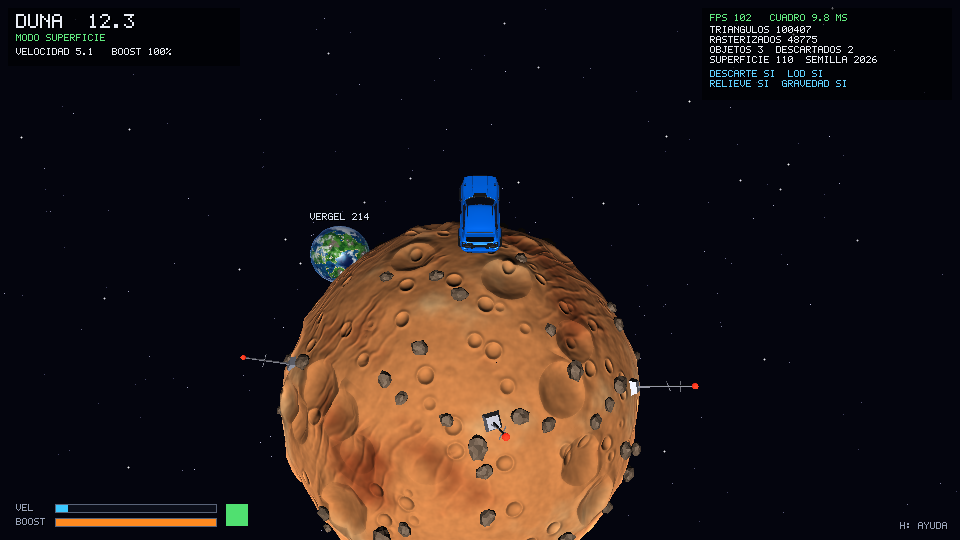
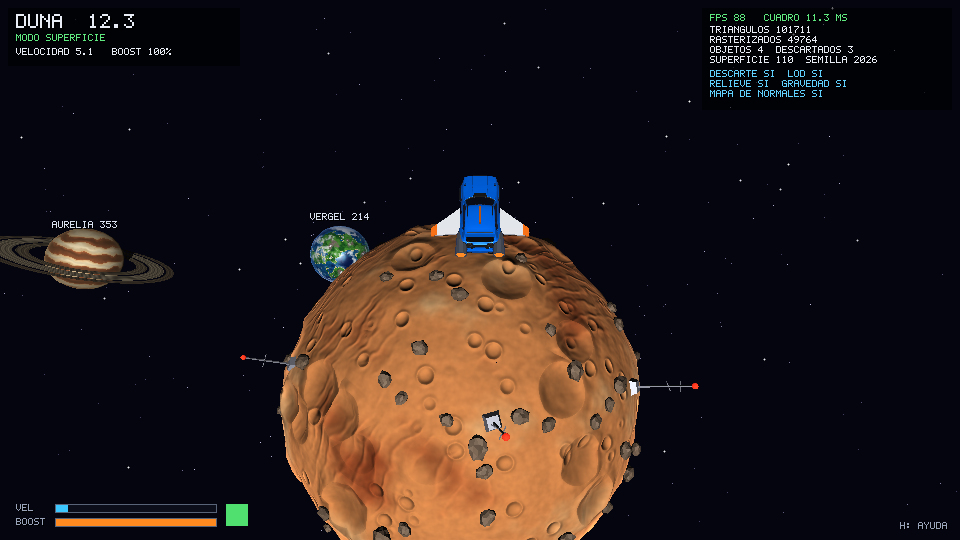
README y capturas actualizadas

diff --git a/README.md b/README.md
@@ -24,6 +24,8 @@ sin pantallas de carga ni cambios de escena.
 |---|---|
 | ![Duna](docs/capturas/02_duna.png) | ![Glacia](docs/capturas/03_glacia.png) |
 | ![Vergel](docs/capturas/04_vergel.png) | ![Sol animado](docs/capturas/05_sol.png) |
+| ![Aurelia y sus anillos](docs/capturas/08_aurelia.png) | ![Ignis](docs/capturas/09_ignis.png) |
+| ![Fennec con el kit espacial y boost](docs/capturas/10_kit.png) | ![Trayectoria prevista por la gravedad](docs/capturas/06_gravedad.png) |
 
 ---
 
@@ -39,7 +41,10 @@ sin pantallas de carga ni cambios de escena.
 
 - **Modelo del carro:** el Fennec es un modelo del videojuego *Rocket League* (Psyonix). Se obtuvo
   como recurso externo (carpeta [fennec-rocket-league-car/](fennec-rocket-league-car/): FBX y texturas);
-  **no fue modelado por el equipo**. Se convirtió a OBJ con un script propio de Blender
+  **no fue modelado por el equipo**. Para adaptarlo como nave, el equipo le agregó un **kit
+  espacial modelado en código** ([src/spacekit.cpp](src/spacekit.cpp)): dos propulsores con tobera
+  incandescente, alerones en flecha, una aleta dorsal y llamas de propulsión animadas (tecla `K`
+  para comparar con el modelo original). Se convirtió a OBJ con un script propio de Blender
   ([tools/export_car.py](tools/export_car.py)), que corrige los ejes, las ruedas espejadas, exporta
   las coordenadas de textura y los mapas de normales del modelo (reducidos a 1024 px en
   `assets/textures/`) y genera una versión reducida (LOD).
@@ -104,6 +109,7 @@ Al arrancar tarda unos **3 segundos** en generar las superficies del sol y los p
 | `--flat` | Duna sin deformar (esfera), para comparar |
 | `--no-opt` | Sin descarte de objetos ni LOD, para comparar contadores |
 | `--no-normal-map` | El carro sin mapas de normales, para comparar |
+| `--no-kit` | El carro sin el kit espacial (como el modelo original) |
 | `--time S` | Adelanta la simulación S segundos |
 | `--dt-test` | Prueba de consistencia: el mismo vuelo simulado a 20, 30, 60, 144 y 240 FPS |
 | `--screenshot archivo.png` | Guarda un cuadro y termina (se combina con las opciones siguientes) |
@@ -129,6 +135,7 @@ Al arrancar tarda unos **3 segundos** en generar las superficies del sol y los p
 | `V` | Activar o desactivar la gravedad |
 | `G` | Duna deformada o como esfera lisa |
 | `M` | Activar o desactivar los mapas de normales del carro |
+| `K` | Mostrar u ocultar el kit espacial del carro |
 | `N` | Nueva semilla para los objetos de superficie |
 | `O` | Activar o desactivar el descarte de objetos |
 | `L` | Activar o desactivar el nivel de detalle automático |
@@ -197,6 +204,8 @@ src/
   ship.*              Física del carro: control, modo superficie, gravedad, colisión
   camera.*            Cámara de persecución
   hud.*, font.*       HUD y fuente propia de 5x7 píxeles
+  spacekit.*          Kit espacial del carro (propulsores, alerones, aleta) y llamas
+  mesh_builder.h      Ayudante para construir modelos en código con caras planas
 ```
 
 ---
@@ -244,6 +253,7 @@ Cada shader es una función que recibe el fragmento interpolado y devuelve su co
 | `ringShader` | Anillos | Vetas finas según la distancia al centro, luz por las dos caras y **sombra del planeta** (rayo hacia el sol contra su esfera) |
 | `ignisShader` | Volcánico | Roca con relieve y lava emisiva con pulsos de calor que avanzan con el tiempo |
 | `carShader` | Carro | Blinn-Phong con los materiales del modelo, **mapeo de normales en espacio tangente** (chasis, rines y llantas), borde Fresnel y faros emisivos |
+| `flameShader` | Llamas de los propulsores | Emisiva: blanca en la tobera, del color de la llama en el medio y oscura en la punta, con parpadeo según el tiempo |
 | `propShader` | Objetos de superficie | Lambert y especular por material, brillo propio y sombra del planeta (sin luz si el sol está bajo su horizonte) |
 
 ### Mapeo de normales del carro ([texture.cpp](src/texture.cpp), [obj_loader.cpp](src/obj_loader.cpp), [shaders.cpp](src/shaders.cpp))
@@ -313,7 +323,8 @@ altura del terreno) que gira con el planeta.
 
 ## Limitaciones conocidas
 
-- El modelo del carro no es de autoría propia (ver *Recursos externos*).
+- El modelo base del carro no es de autoría propia; el equipo lo modificó con el kit espacial (ver
+  *Recursos externos*).
 - Los objetos de superficie y los anillos de Aurelia no tienen colisión (el carro los puede atravesar).
 - No hay sombras proyectadas entre objetos; solo la sombra del planeta sobre sus objetos.
 - La gravedad del sol es suave a propósito, para que el carro detenido no se vaya cayendo.
